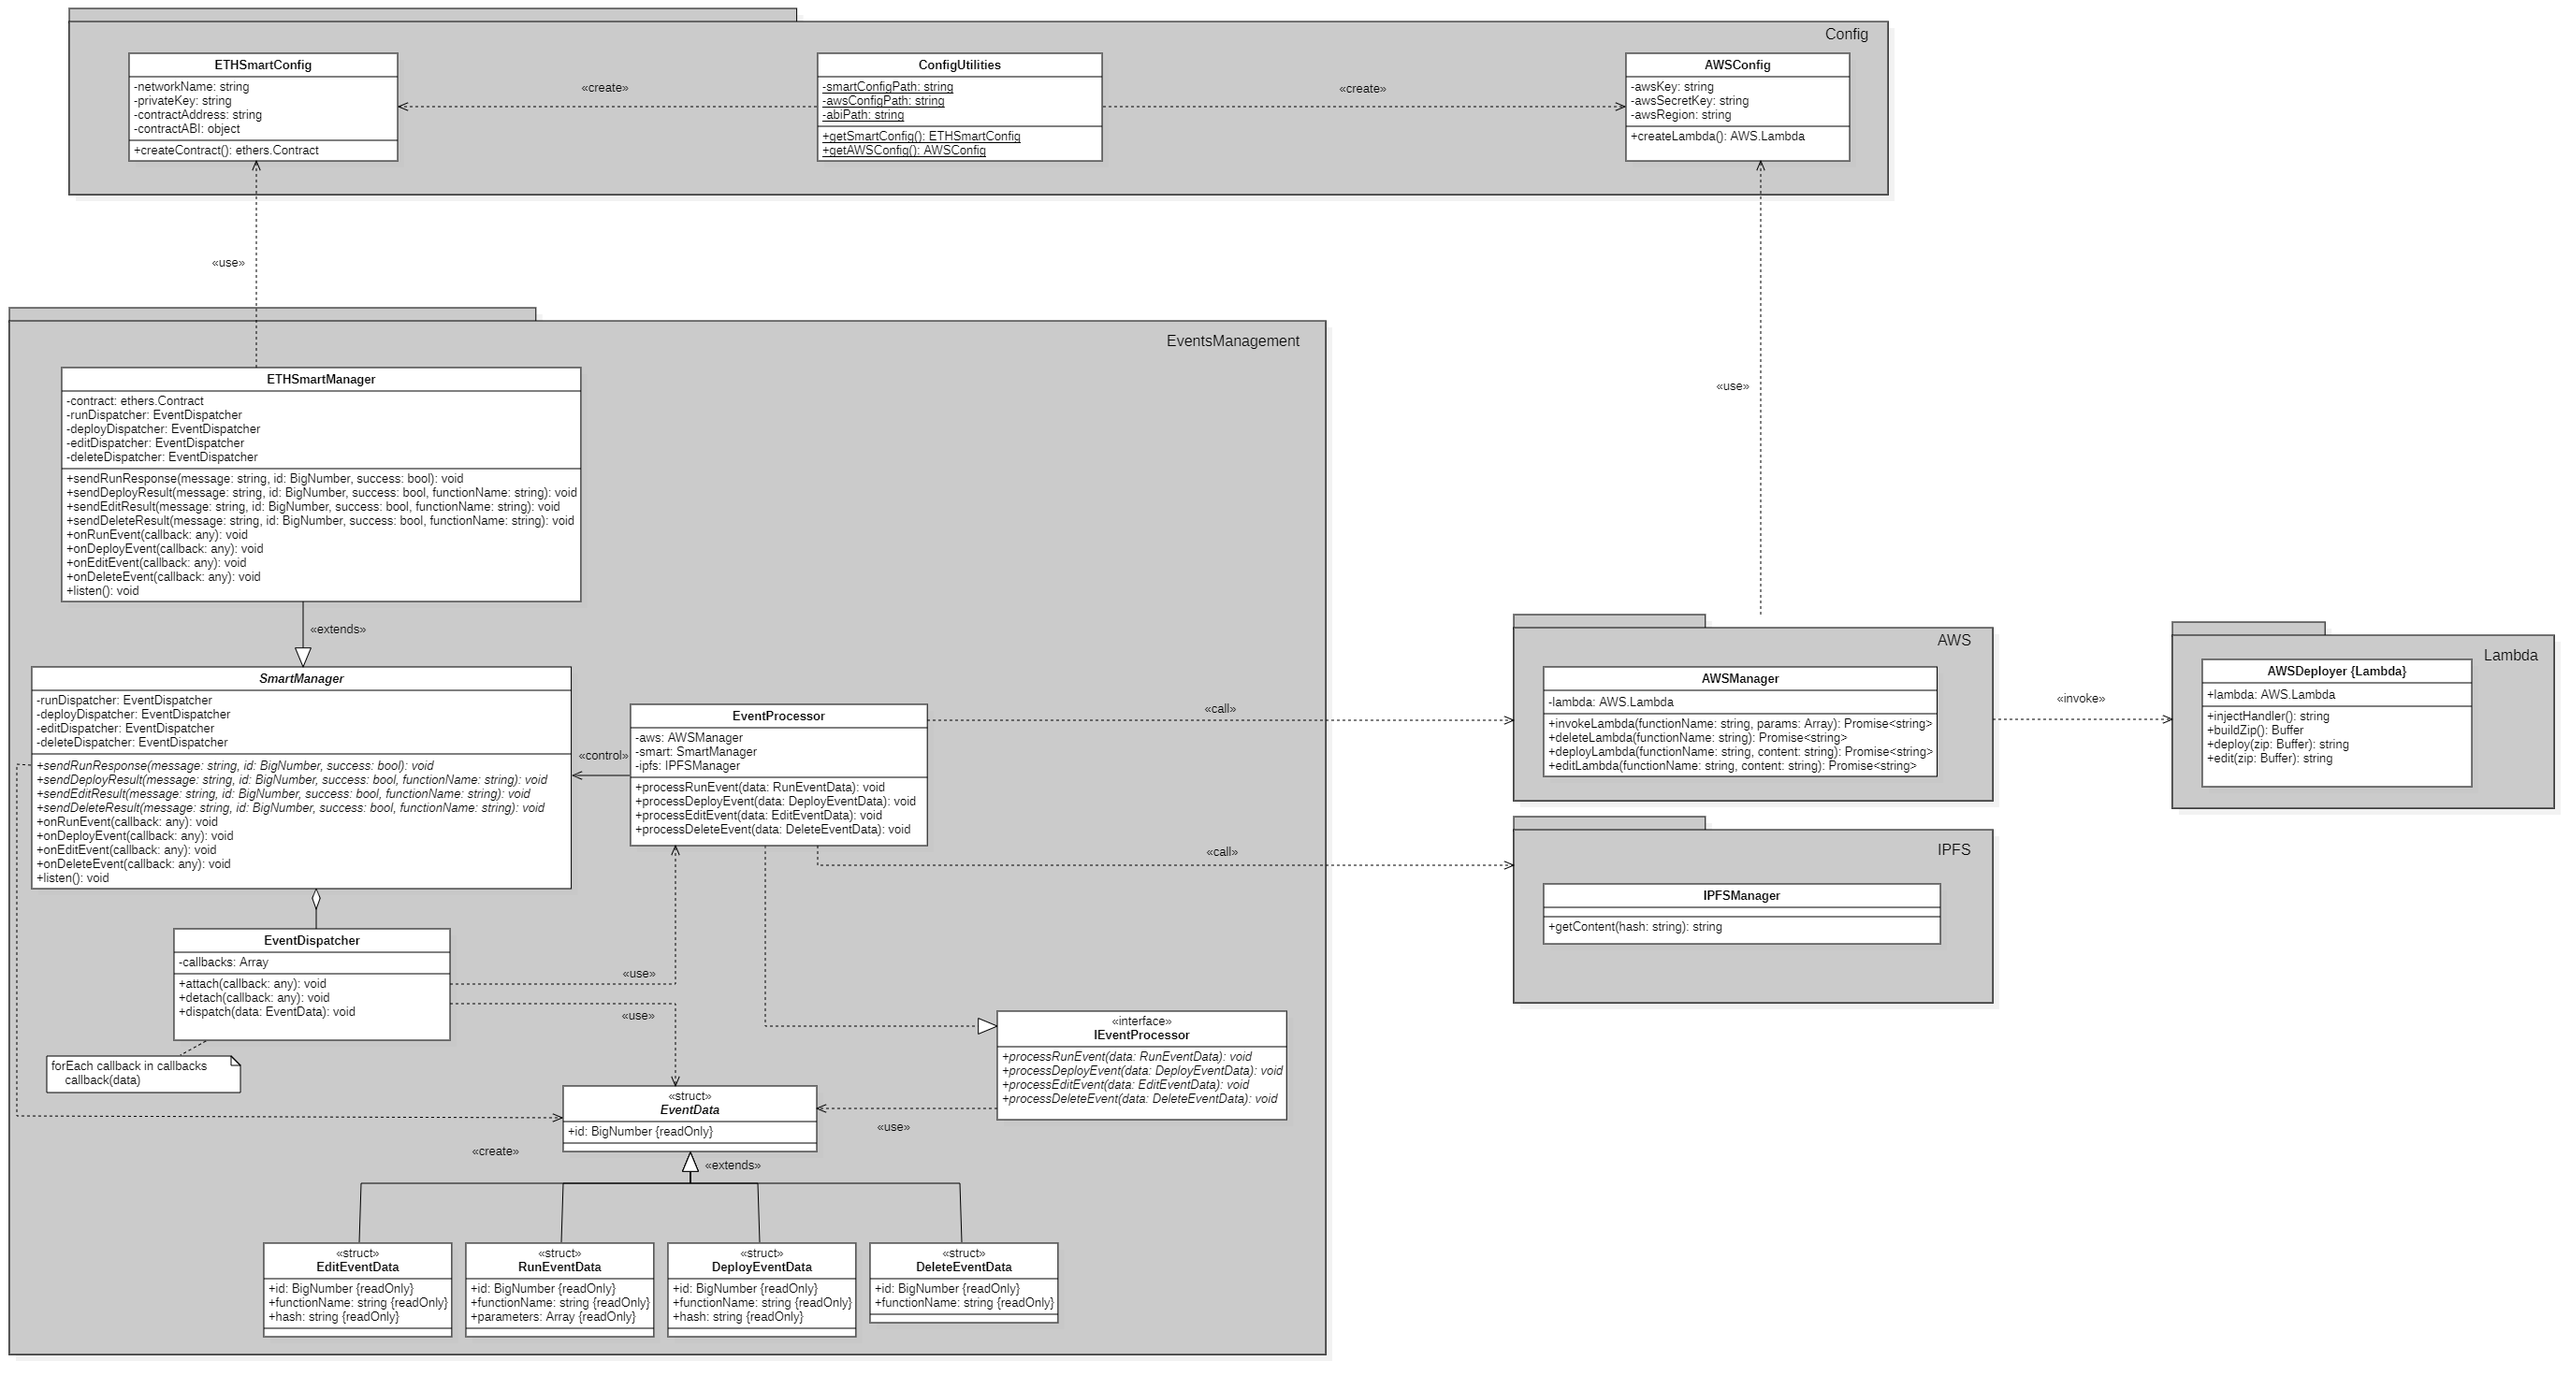
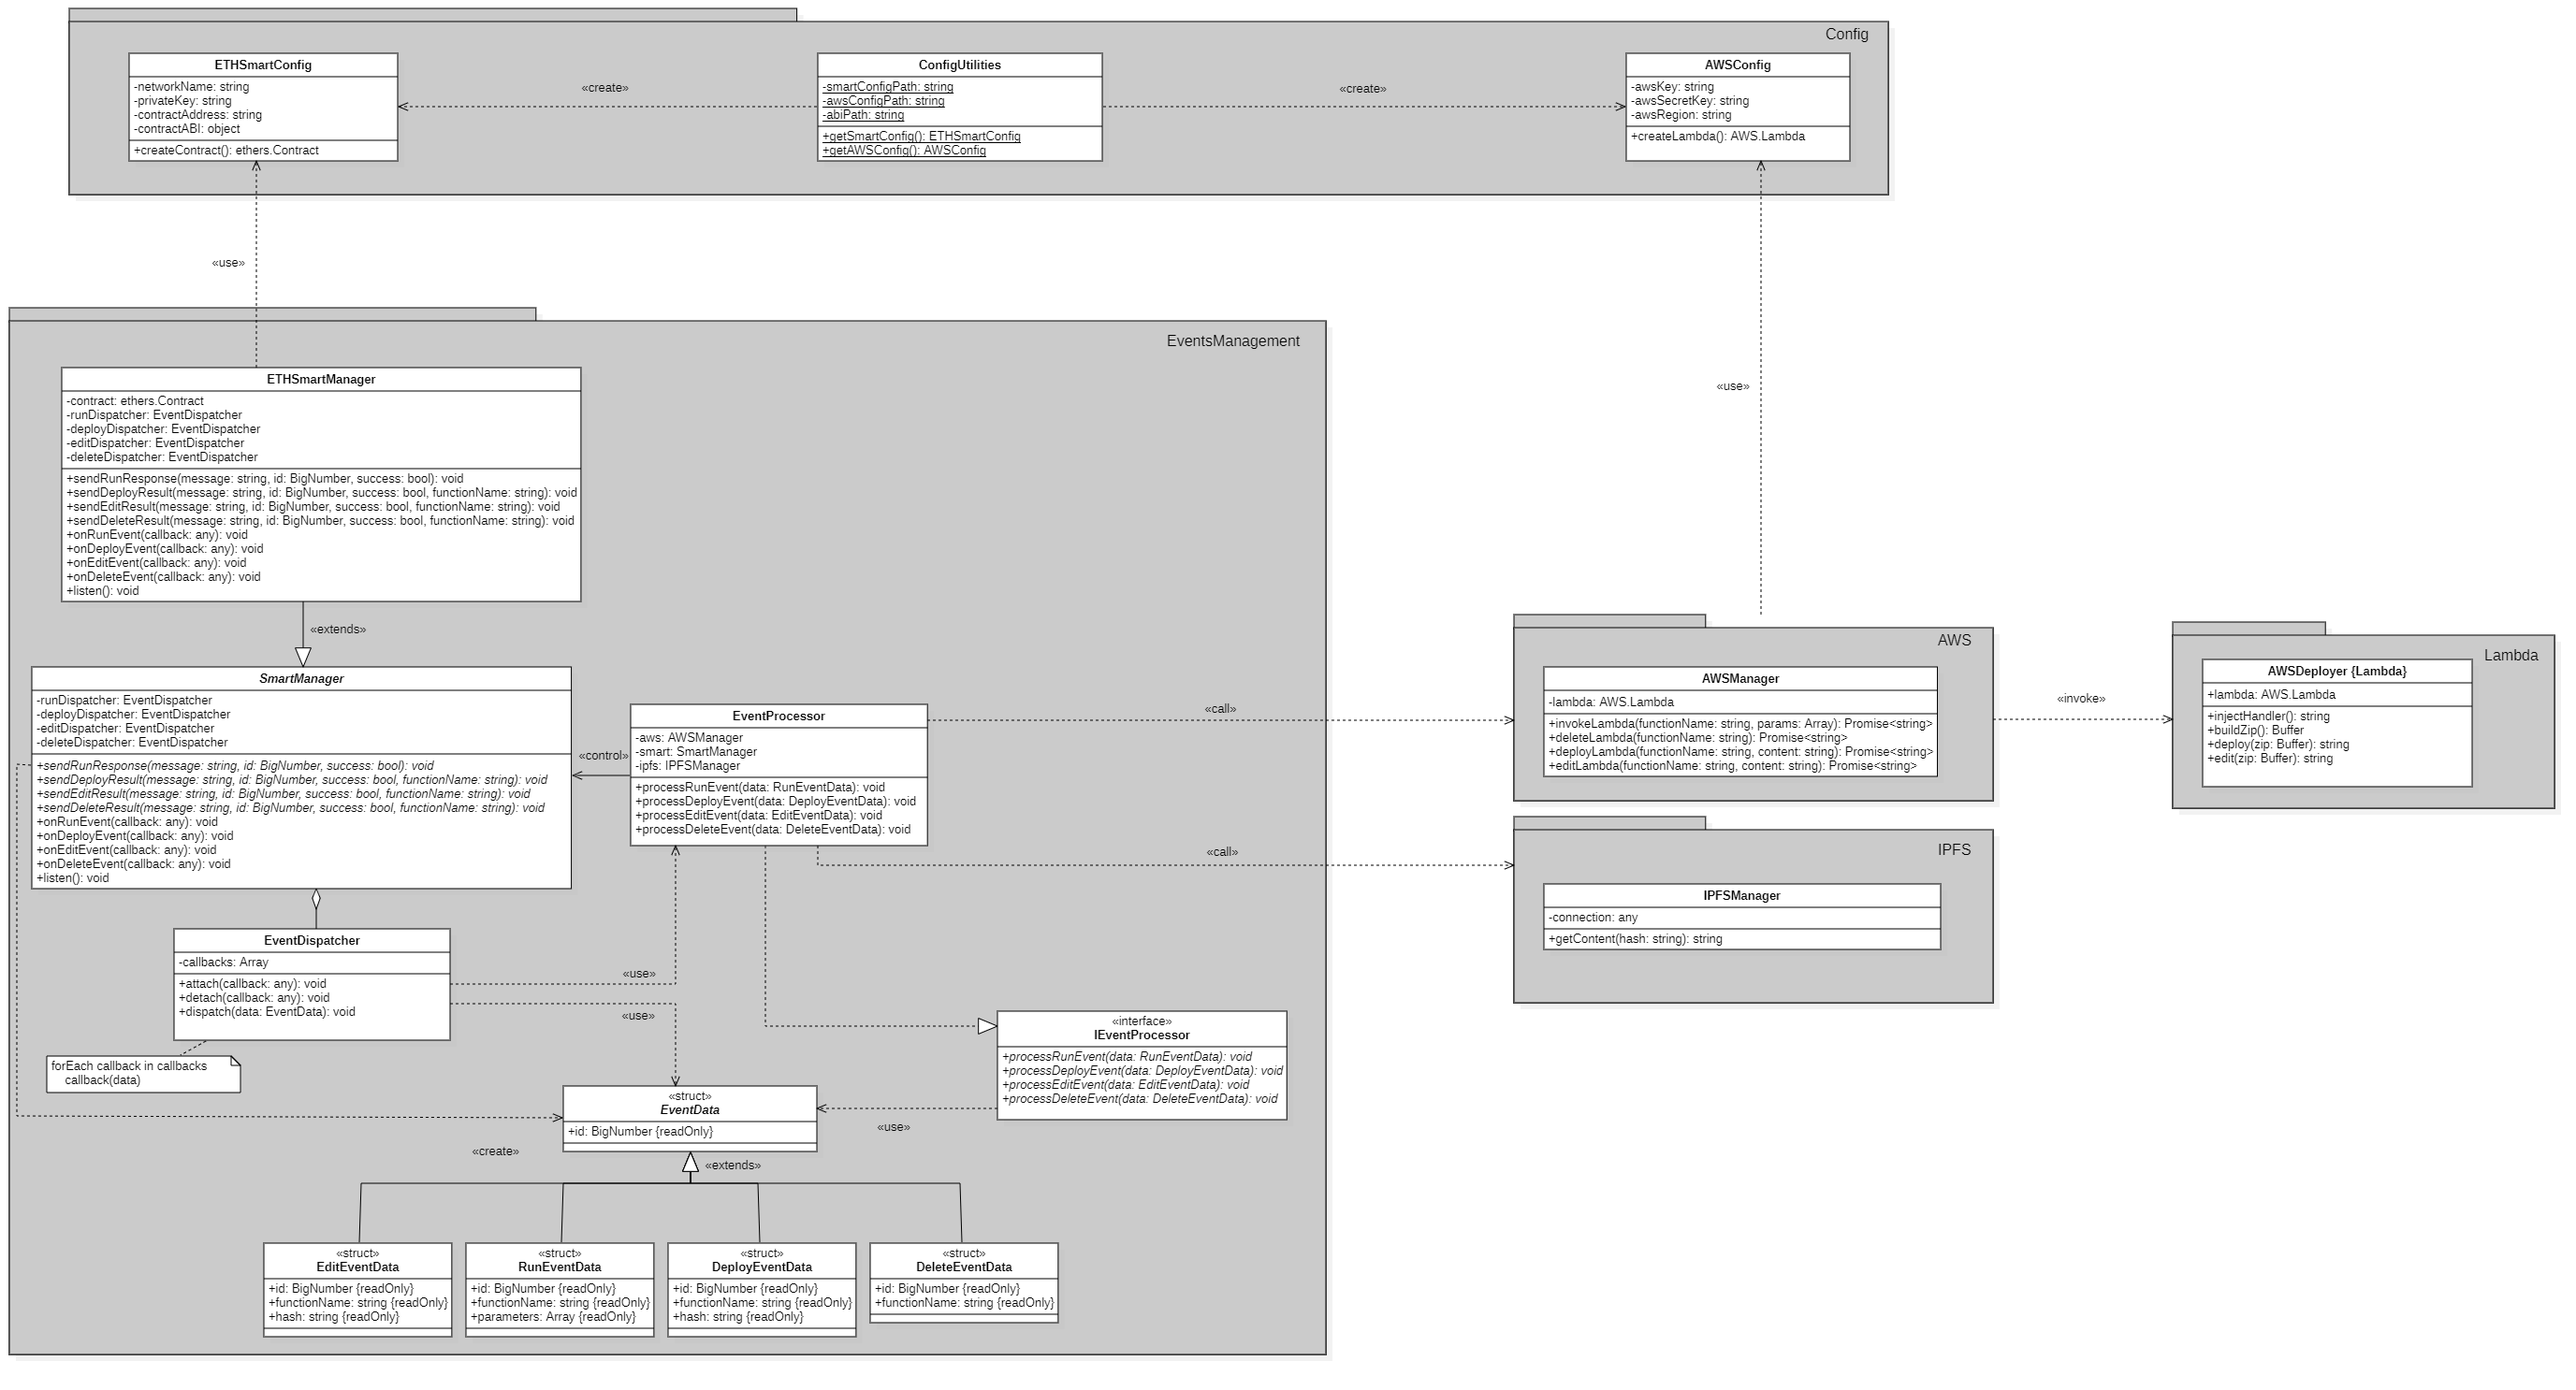
Correzioni contestuali

diff --git a/Esterni/Developer_manual/res/sections/01.5-GettingStarted.tex b/Esterni/Developer_manual/res/sections/01.5-GettingStarted.tex
@@ -43,7 +43,7 @@ The tecnologies used during the development of Etherless, which are further desc
 
 	configstore & $\geq$5.0.1 \tabularnewline
 	inquirer & $\geq$7.1.0 \tabularnewline
-	node & $\geq$13.13.4 \tabularnewline
+	node & $\geq$12.18.0 \tabularnewline
 	acorn & $\geq$7.2.0 \tabularnewline
 	ethers & $\geq$4.0.47 \tabularnewline
 	ipfs-mini & $\geq$1.1.5 \tabularnewline
@@ -93,10 +93,10 @@ In this section all of the basic requirements needed to run and test the product
 \subsubsection{Software}
 \begin{itemize}
 	\item \textbf{AWS credentials}: in order to interact the Amazon Web Services, an AWS account is required;
-	\item \textbf{ETH wallet}: in order to perform transactions on the blockchain Ethereum, a \textit{non empty} ETH wallet is required. Etherless allows the creation of a wallet on the run, but it does not contain any Ethers.
+	\item \textbf{ETH wallet}: in order to perform transactions on the blockchain Ethereum, a \textit{non empty} ETH wallet is required. \textit{Etherless} allows the creation of a wallet on the run, but it does not contain any Ethers.
 \end{itemize}
 \subsection{Setup}
-This section describes all the steps needed to install the Etherless product.
+This section describes all the steps needed to install the \textit{Etherless} product.
 \subsubsection{Git}
 \begin{itemize}
 	\item \textbf{Windows}: download the .exe file from \href{https://git-scm.com/download/win}{Git official site}, and follow the given instruction;
@@ -112,9 +112,9 @@ This section describes all the steps needed to install the Etherless product.
 \subsection{Configuration}
 This section shows how to configure the work environment, to be able to execute, test and develop on Etherless. This configuration steps should be followed in the given order.
 \subsubsection{Cloning the repository}
-To download the software product on your machine, from the GitHub Etherless repository, you should open a shell and position on the folder you want the software to be located. Then you should use the command \texttt{git clone https://github.com/RoundaboutTeam/etherless.git} and position on the \texttt{master} branch.
+To download the software product on your machine, from the GitHub \textit{Etherless} repository, you should open a shell and position on the folder you want the software to be located. Then you should use the command \texttt{git clone https://github.com/RoundaboutTeam/etherless.git} and position on the \texttt{master} branch.
 \subsubsection{Installing the dependencies}
-To install all the packages and libreries needed to work with Etherless you should open a shell and position on the main directory of the software. Then you should run the \texttt{npm install} command, which will take care of installing all the dependencies specified in the \texttt{package.json} file.
+To install all the packages and libreries needed to work with \textit{Etherless} you should open a shell and position on the main directory of the software. Then you should run the \texttt{npm install} command, which will take care of installing all the dependencies specified in the \texttt{package.json} file.
 \subsubsection{AWS and Ethereum configurations}
 In the cloned repository two configuration files are not present for security reasons, since they contain the Ethereum and AWS credentials used to interact with these two services. They are present on the Etherless-server version already uploaded and active on AWS Elastic Beanstalk.
 Any developer who might want to work with a local version of Etherless-server should create an \texttt{AWSconfig.json} file structured as:
@@ -202,7 +202,7 @@ Then you should run the command \texttt{npm link} as Administrator.
 	\texttt{etherless delete <<function name>>}
 \subsection{Testing}
 \subsubsection{Etherless}
-Launching the \texttt{npm test} command inside the Etherless directory will automatically trigger all the developed tests for the whole software product.
+Launching the \texttt{npm test} command inside the \textit{Etherless} directory will automatically trigger all the developed tests for the whole software product.
 \subsubsection{Etherless-cli and Etherless-server}
 It is possible to test the Etherless-cli and Etherless-server modules indipendently, by launching the \texttt{npm test} command inside their directories.
 \subsubsection{Etherless-smart}

diff --git a/Esterni/Developer_manual/res/sections/02-Etherless.tex b/Esterni/Developer_manual/res/sections/02-Etherless.tex
@@ -1,7 +1,7 @@
 \section{Etherless}
 	\subsection{Architecture} % Descrizione dell'architettura utilizzata tra i tre moduli cli, smart e server
-	In this section describes the overall architecture of the Etherless product. \\
-	Etherless was developed as a Layered architecture, consisting of three layers, which are also its main components:
+	In this section describes the overall architecture of the \textit{Etherless} product. \\
+	\textit{Etherless} was developed as a Layered architecture, consisting of three layers, which are also its main components:
 	\begin{itemize}
 		\item \textbf{Etherless-cli};
 		\item \textbf{Etherless-smart};
@@ -24,7 +24,7 @@
 	Following the Layered architecture pattern, the users' requests received by Etherless-cli move from one layer to the layer right below it. Which means that every module has a specific role in the communication:
 	\begin{itemize}
 		\item \textbf{Etherless-cli}: accepts users' requests, routes them to Etherless-smart and displays information to the user;
-		\item \textbf{Etherless-smart}: processes the received requests and forwards them to Etherless-server if needed. Also returns the requests' results to Etherless-cli, once they have been completed;
+		\item \textbf{Etherless-smart}: processes the received requests and forwards them to Etherless-server if needed. Also returns the requests results to Etherless-cli, once they have been completed;
 		\item \textbf{Etherless-server}: interacts with AWS Lambda and other services, in order to satisfy the received requests.
 	\end{itemize}
 	\begin{figure}
@@ -40,4 +40,4 @@
 	\end{figure}
 	\pagebreak
 	\subsection{Extensions} %Possibili sviluppi futuri
-	The architecture was developed following the SOLID open-close principle, allowing the integration of new functionalities and components inside each module, without heavy alteration to the existing code. An in-depth description of the possible extensions is later presented in the modules' specific sections.
+	The architecture was developed following the SOLID open-close principle, allowing the integration of new functionalities and components inside each module, without heavy alteration to the existing code. An in-depth description of the possible extensions is later presented in the modules specific sections.

diff --git a/Esterni/Developer_manual/res/sections/changelog.tex b/Esterni/Developer_manual/res/sections/changelog.tex
@@ -19,11 +19,11 @@
 
 	% contenuto tabella
 	% Versione & data & Nome \\ Ruolo & Descrizione & Verificatore \\ Ruolo
-	0.0.9 & 2020-06-09 & \AS{} \\ \textit{Designer} & Updated \textsection{6}. & \VB \\ \textit{Verifier} \tabularnewline
-  0.0.8 & 2020-06-07 & \NF{} \\ \textit{Developer} & Added \textsection{5} and updated Glossary. & \AS \\ \textit{Verifier} \tabularnewline
-  0.0.7 & 2020-06-06 & \AS{} \\ \textit{Designer} & Added \textsection{2} &  \LB \\  \textit{Verifier} \tabularnewline
-	0.0.6 & 2020-06-06 & \EG{} \\ \textit{Designer} & Added \textsection{4}. &  \AZ \\ \textit{Verifier} \tabularnewline
-  0.0.5 & 2020-06-05 & \AS{} \\ \textit{Designer} & Added \textsection{3}. & \VB \\  \textit{Verifier} \tabularnewline
+	0.0.8 & 2020-06-09 & \AS{} \\ \textit{Designer} & Updated \textsection{6}. & \VB \\ \textit{Verifier} \tabularnewline
+  0.0.7 & 2020-06-07 & \NF{} \\ \textit{Developer} & Added \textsection{5} and updated Glossary. & \AS \\ \textit{Verifier} \tabularnewline
+  0.0.6 & 2020-06-06 & \AS{} \\ \textit{Designer} & Added \textsection{2} &  \VB \\  \textit{Verifier} \tabularnewline
+	0.0.5 & 2020-06-06 & \EG{} \\ \textit{Designer} & Added \textsection{4}. &  \AZ \\ \textit{Verifier} \tabularnewline
+  0.0.4 & 2020-06-05 & \AS{} \\ \textit{Designer} & Added \textsection{3}. & \VB \\  \textit{Verifier} \tabularnewline
 	0.0.3 & 2020-05-31 & \LB{} \\ \textit{Designer} & Added \textsection{1}. &  \EG \\  \textit{Verifier} \tabularnewline
 	0.0.2 & 2020-05-29 & \LB{} \\ \textit{Designer} & Added \textsection{6.1} and Glossary. & \AZ \\ \textit{Verifier} \tabularnewline
   0.0.1 & 2020-05-20 & \LB{} \\ \textit{Designer} & Created the structure of the document. & \AZ \\ \textit{Verifier} \tabularnewline

diff --git a/Esterni/Developer_manual/res/sections/01-Intro.tex b/Esterni/Developer_manual/res/sections/01-Intro.tex
@@ -1,12 +1,12 @@
 \section{Introduction}
 
 	\subsection{Purpose of the document}
-	The contents of this manual are intended to help the developers who decide to maintain or further develop Etherless. \\
+	The contents of this manual are intended to help the developers who decide to maintain or further develop \textit{Etherless}. \\
 	It also describes the requirements necessary to be able to use it, the libraries and external frameworks adopted for the development of the application.
 	
 	
 	\subsection{Purpose of the product}
-	Etherless is a cloud platform that allows developers to deploy Javascript functions and manages the payment for their execution through the Ethereum platform.
+	\textit{Etherless} is a cloud platform that allows developers to deploy Javascript functions and manages the payment for their execution through the Ethereum platform.
 	The final product involves the integration of two technologies, Serverless and Ethereum.\\
 	Serverless takes care of the deployment of the functions provided by the developers, which are saved and executed in an external cloud service, such as Amazon Web Services.\\
 	The request to use a function and the subsequent payment are instead managed through the Ethereum platform using smart contracts. Payment is made in ETH, and a significant percentage of the latter is reserved for service administrators.\\

diff --git a/Esterni/Developer_manual/res/sections/05-Server.tex b/Esterni/Developer_manual/res/sections/05-Server.tex
@@ -155,9 +155,11 @@
 		\caption{Class diagram of the IPFS package.}
 	\end{figure}
 	\subsubsubsection{IPFSManager}
-	Class used to communicate with the IPFS service, specifically to retrieve functions' data in string format from it.
+	Class used to communicate with the IPFS service, specifically to retrieve functions' data in string format from it. To estabilish a connection to the IPFS network we use \texttt{ipfs-mini} API. 
 	\subsubsubsection*{Attributes}
-	This class does not contain attributes.
+	\begin{itemize}
+		\item \textbf{connection}: object through which the class can interact with the \texttt{ipfs-mini} API.
+	\end{itemize}
 	\subsubsubsection*{Methods}
 	\begin{itemize}
 		\item \textbf{getContent}: used to retrieve functions' data in string format from IPFS.

diff --git a/Esterni/Developer_manual/config/commands.tex b/Esterni/Developer_manual/config/commands.tex
@@ -1,9 +1,9 @@
 %Lista dei comandi personalizzati
 \newcommand{\docTitle}{Developer Manual}
-\newcommand{\docVersion}{0.0.9}
+\newcommand{\docVersion}{0.0.8}
 \newcommand{\approv}{}
-\newcommand{\ver}{\AZ{}}
-\newcommand{\red}{\LB{} \\ & \AS{}}
+\newcommand{\ver}{\AZ{} \\ & \VB{} \\ & \AS{} \\ & \EG{}}
+\newcommand{\red}{\LB{} \\ & \AS{} \\ &  \NF{} \\ &  \EG{}}
 \newcommand{\state}{Not approved}
 \newcommand{\use}{External}
 \newcommand{\desc}{Developer Manual made by Roundabout for the project Etherless, useful for developers for maintenance and extension.}

diff --git a/Esterni/Developer_manual/res/sections/04-Smart.tex b/Esterni/Developer_manual/res/sections/04-Smart.tex
@@ -1,4 +1,4 @@
-\section{Etherless-Smart}
+\section{Etherless-smart}
 
 \subsection{Overview}
 	Etherless-smart is the module which handles transactions on the Ethereum blockchain. It consists of a set of Ethereum smart contracts that handle the communication between Etherless-cli and Etherless-server as well as the payment of this work using ETH currency.
